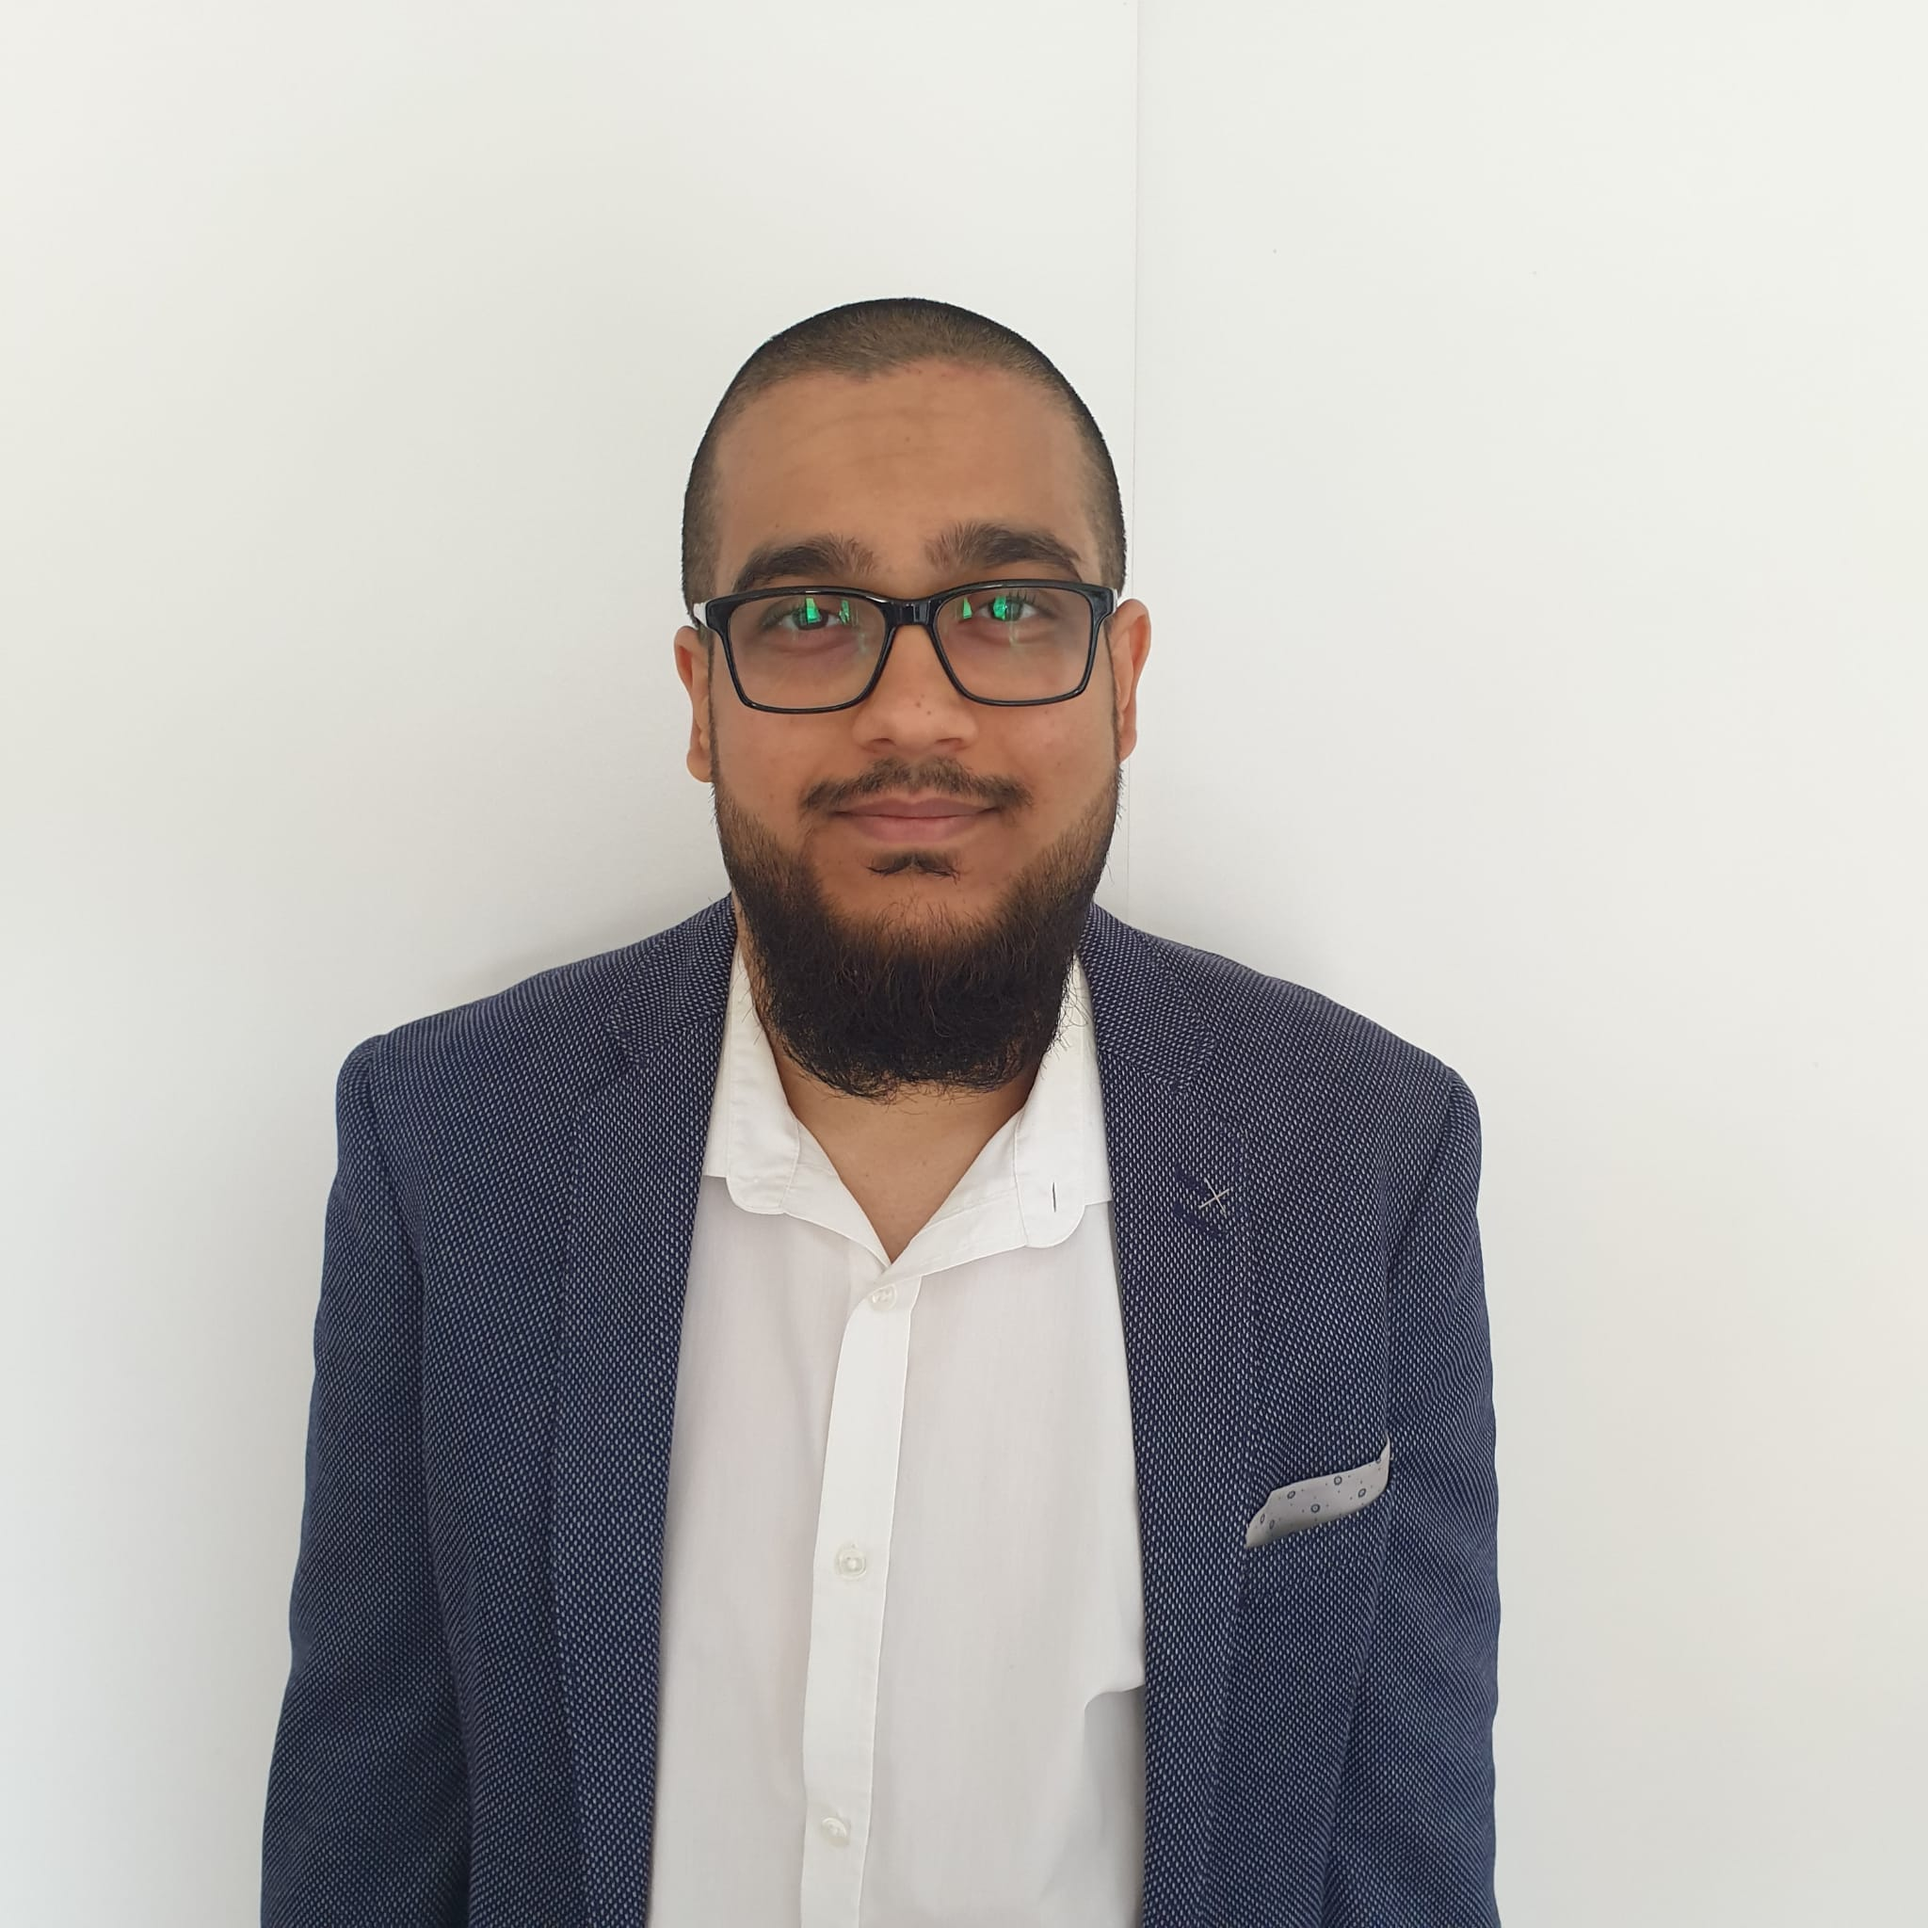
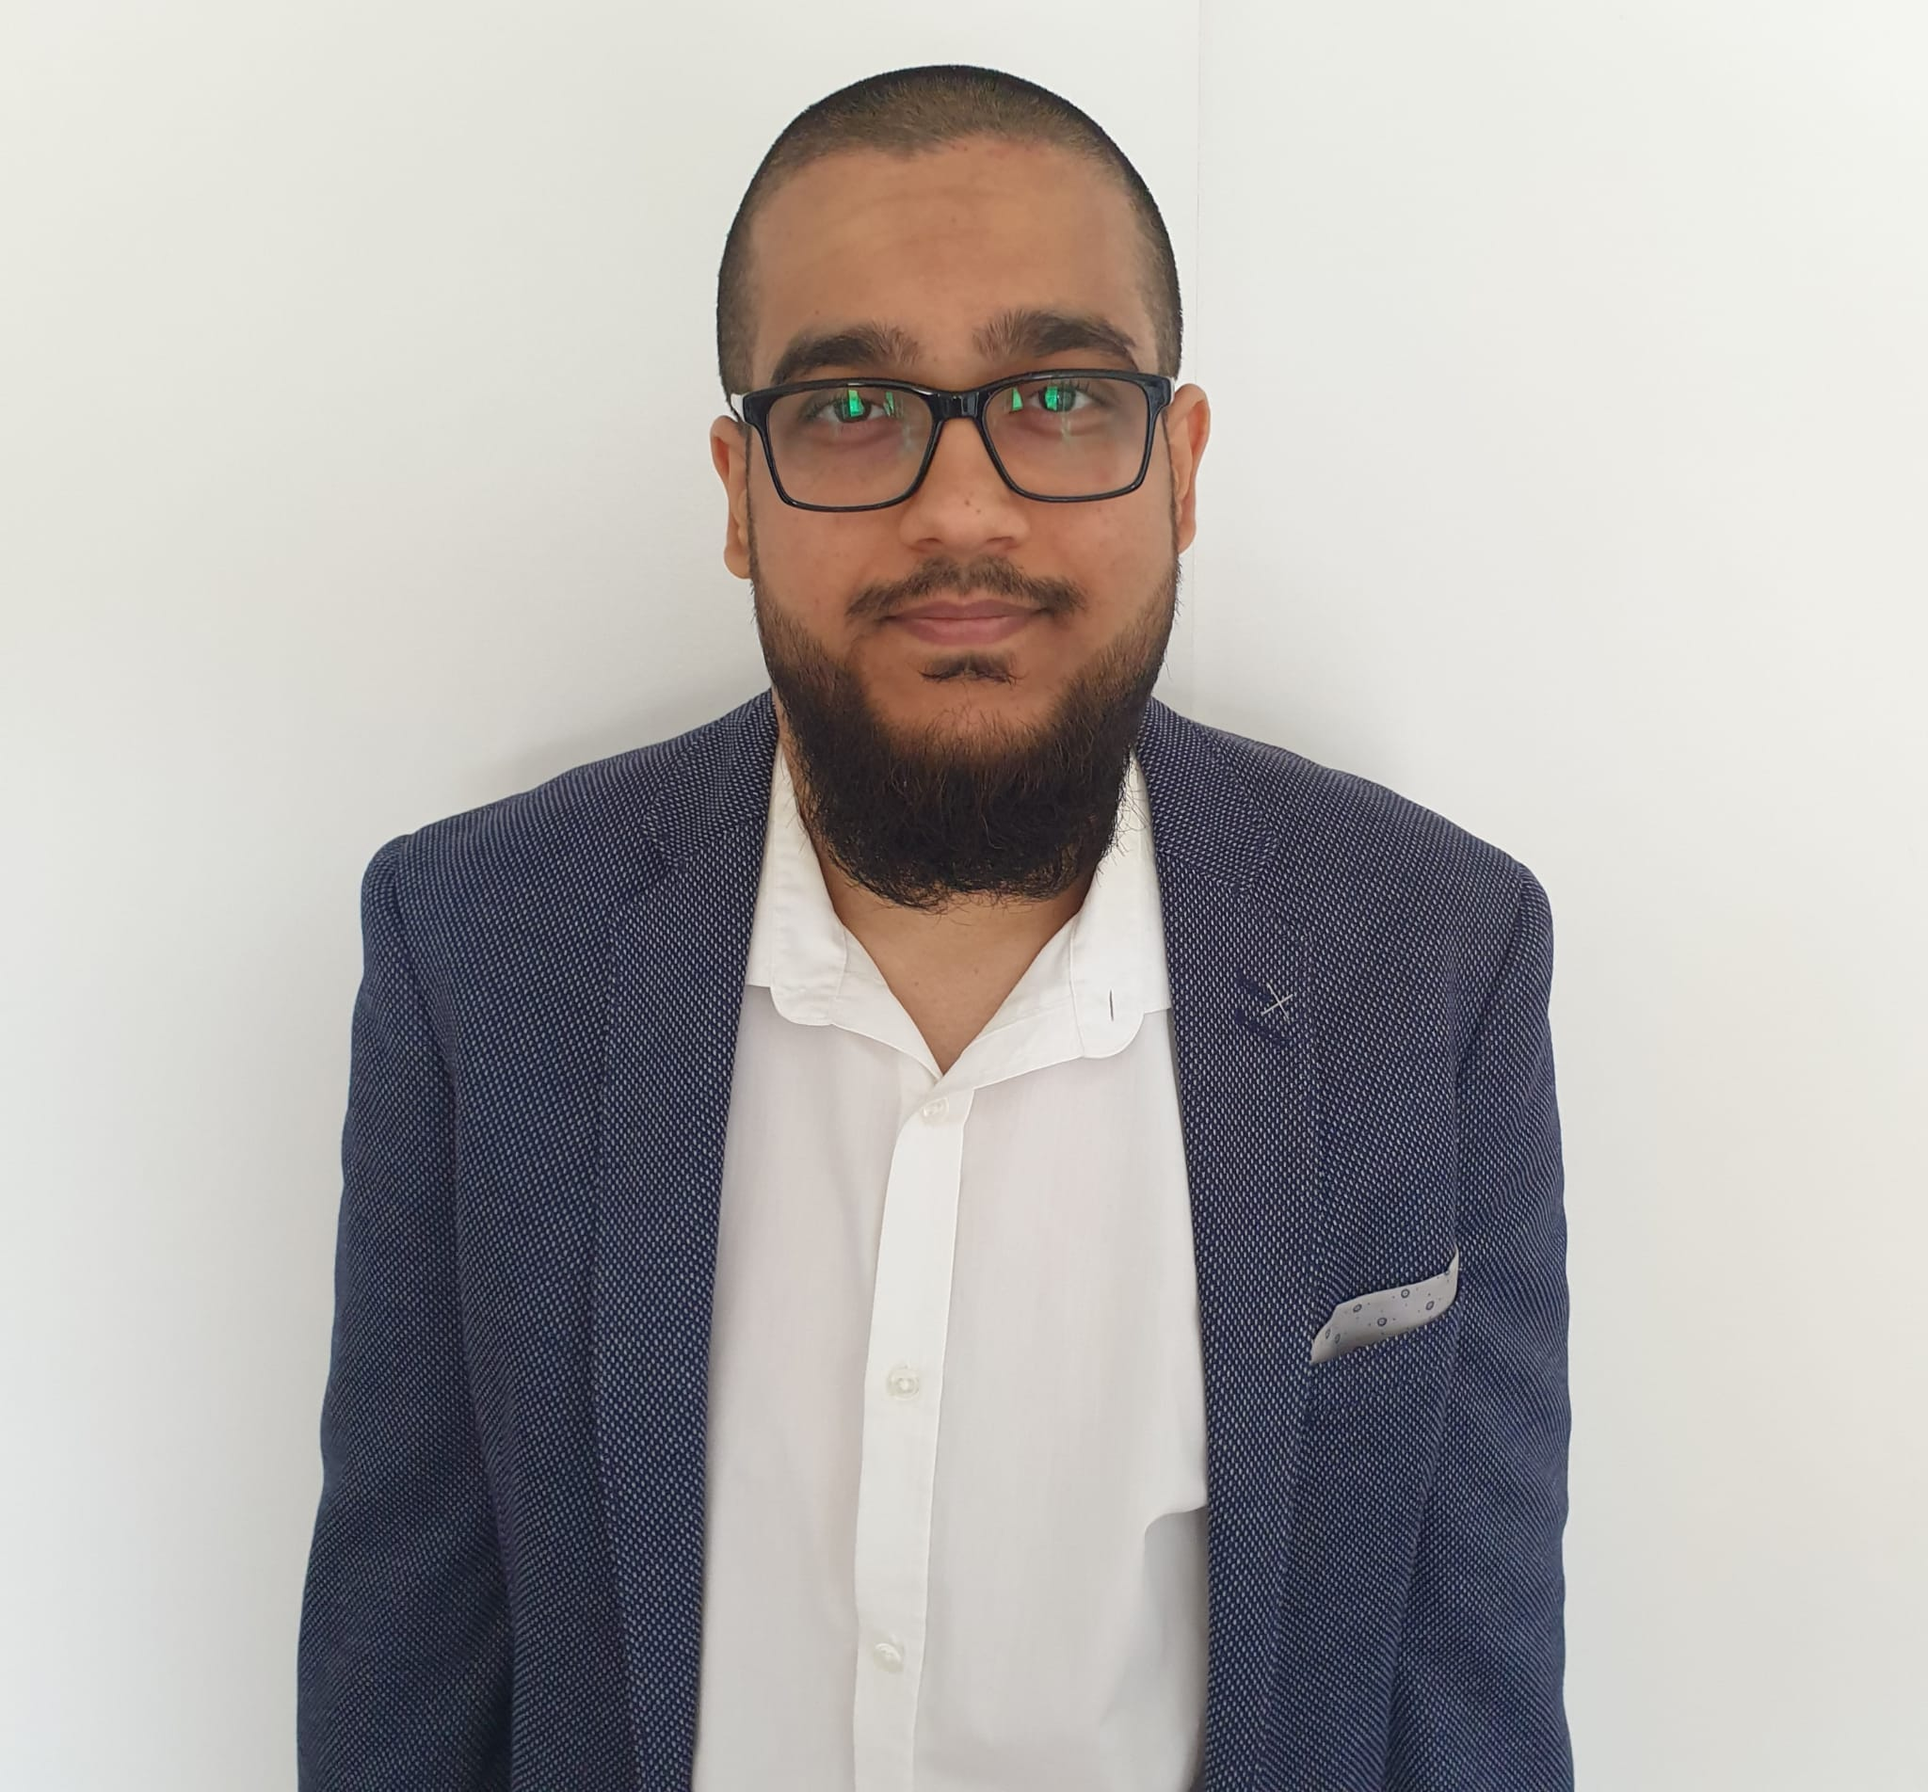
just noticed, design only works on -50% zoom

Changed region(s): [[0.125, 0.031, 0.8438, 1.0]]

diff --git a/style.css b/style.css
@@ -5,104 +5,47 @@ body {
     font-family: sans-serif;
 }
 
-.container {
-    max-width: 1400px;
+.text {
     margin: 0 auto;
-    padding: 60px 40px;
+    padding: 100px;
+    max-width: 10000px;
+    padding-left: 100px;
 }
 
-.header-section {
-    display: grid;
-    grid-template-columns: 1fr auto;
+.header-row {
+    display: flex;
     align-items: center;
-    gap: 60px;
-    margin-bottom: 40px;
+    flex-wrap: wrap;
+    gap: 180px;
+    justify-content: flex-start;
 }
 
-.text-content {
+.text-left {
     display: flex;
     flex-direction: column;
+    justify-content: center;
 }
 
 .myName {
-    font-size: clamp(4rem, 8vw, 10rem);
+    font-size: 12rem;
     margin: 0;
-    line-height: 0.9;
-    font-weight: bold;
 }
 
 .slogan {
-    font-size: clamp(2rem, 4vw, 4.5rem);
-    margin: 15px 0 0 0;
-    line-height: 1.1;
-    color: #333;
-}
-
-.picture-container {
-    position: relative;
-    width: 500px;
-    height: 500px;
-    flex-shrink: 0;
+    font-size: 5.8rem;
+    margin: 0;
+    margin-top: 25px;
 }
 
 .pictureOfMe {
-    width: 100%;
-    height: 100%;
-    border-radius: 50%;
+    width: 650px;
+    height: 650px;
+    border-radius: 100%;
     object-fit: cover;
-    object-position: center 20%;
-    box-shadow: 0 20px 40px rgba(0,0,0,0.1);
 }
 
 .description {
-    font-size: 1.6rem;
-    line-height: 1.6;
-    color: #444;
-    max-width: 900px;
     margin-top: 20px;
-}
-
-.description strong {
-    color: #2c3e50;
-}
-
-/* Responsive Design */
-@media (max-width: 1200px) {
-    .header-section {
-        grid-template-columns: 1fr;
-        text-align: center;
-        gap: 40px;
-    }
-    
-    .picture-container {
-        width: 400px;
-        height: 400px;
-        margin: 0 auto;
-    }
-}
-
-@media (max-width: 768px) {
-    .container {
-        padding: 40px 20px;
-    }
-    
-    .picture-container {
-        width: 300px;
-        height: 300px;
-    }
-    
-    .description {
-        font-size: 1.4rem;
-    }
-}
-
-@media (max-width: 480px) {
-    .picture-container {
-        width: 250px;
-        height: 250px;
-    }
-    
-    .description {
-        font-size: 1.2rem;
-    }
+    font-size: 1.8rem;
+    line-height: 1.6;
 }

diff --git a/index.html b/index.html
@@ -3,30 +3,32 @@
 <head>
     <meta charset="UTF-8">
     <meta name="viewport" content="width=device-width, initial-scale=1.0">
-    <title>Portfolio - Liridon Drenica</title>
+    <title>Portfolio</title>
     <link rel="stylesheet" href="style.css">
 </head>
 
 <body>
-    <div class="container">
-        <div class="header-section">
-            <div class="text-content">
+    <div class="text">
+        <div class="header-row">
+            <div class="text-left">
                 <h1 class="myName">Liridon Drenica</h1>
                 <h2 class="slogan">Code.Fail.Repeat.Success.</h2>
             </div>
-            <div class="picture-container">
-                <img class="pictureOfMe" src="img/PictureOfMe.jpg" alt="Picture of me">
-            </div>
+            <img class="pictureOfMe" src="img/pictureOfMe.NotEditedjpg.jpg" alt="Picture of me">
         </div>
 
-        <div class="description">
+        <h3 class="description">
             Hello, my name is Liridon Drenica and I'm teaching myself how to learn to code since one year, sadly with 
-            a lot of breaks because of my private life, but I'm still giving my best and I hope I can impress you with my portfolio.
+            a lot of breaks because of my private life, <br> but I'm still giving my best and I hope I can impress you with my portfolio.
             On this portfolio you will find my projects, learning plan, profiles on GitHub, LinkedIn and my CV. I hope I am able 
-            and find the time to constantly update this page.
-            <br><br><strong>Have fun exploring my portfolio!</strong>
-        </div>
+            and find the time to constantly update this page. <br> <strong> Have fun exploring my portfolio! </strong>
+        </h3>
     </div>
+
+    <section class="ownProjection">
+        <h1 class="titleProject">My Own Projects</h1>
+        <h2 class="jjbaQuiz">JJBA Quiz</h2>
+    </section>
 
     <script src="script.js"></script>
 </body>
